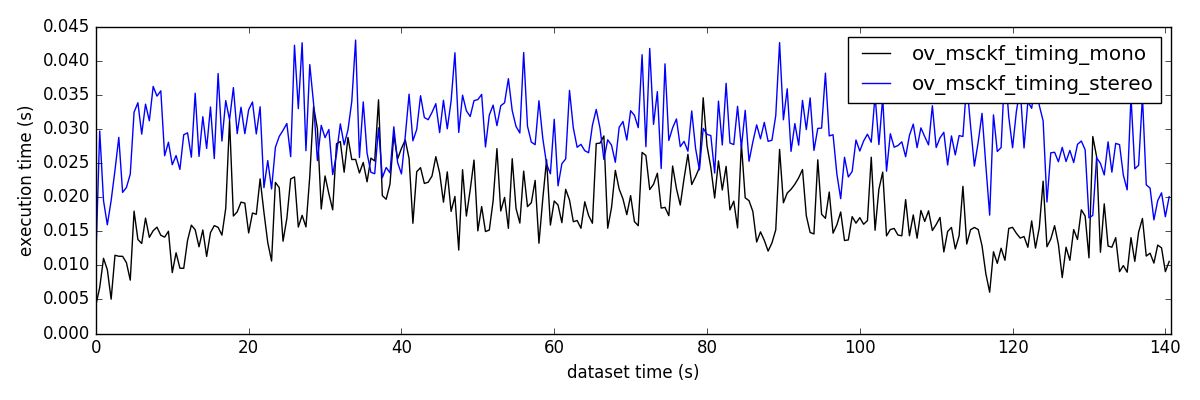
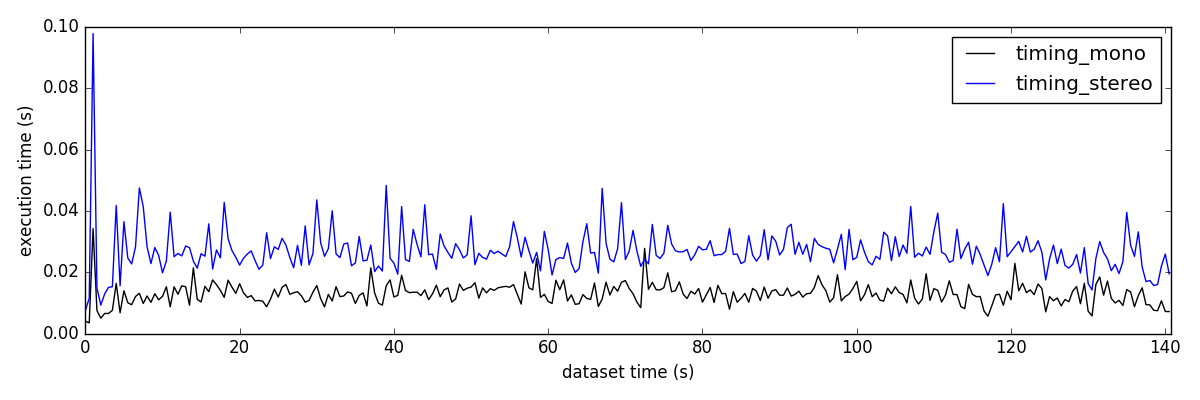
updated documentation about evaluation methods and how to use the new timing plot utilities

diff --git a/open_vins/ov_eval/src/timing_percentages.cpp b/open_vins/ov_eval/src/timing_percentages.cpp
@@ -127,7 +127,8 @@ int main(int argc, char **argv) {
         algo_timings.at(algo).at(2).calculate();
         printf("\tPREC: mean_cpu = %.3f +- %.3f\n",algo_timings.at(algo).at(0).mean,algo_timings.at(algo).at(0).std);
         printf("\tPREC: mean_mem = %.3f +- %.3f\n",algo_timings.at(algo).at(1).mean,algo_timings.at(algo).at(1).std);
-        printf("\t#THR: mean_threads = %.3f +- %.3f\n",algo_timings.at(algo).at(2).mean,algo_timings.at(algo).at(2).std);
+        printf("\tTHR: mean_threads = %.3f +- %.3f\n",algo_timings.at(algo).at(2).mean,algo_timings.at(algo).at(2).std);
+        printf("======================================\n");
 
     }
 
@@ -149,6 +150,8 @@ int main(int argc, char **argv) {
     params_rpe.insert({"notch","false"});
     params_rpe.insert({"sym",""});
 
+    //============================================================
+    //============================================================
     // Plot this figure
     matplotlibcpp::figure_size(1500, 400);
 
@@ -184,7 +187,49 @@ int main(int argc, char **argv) {
     // Display to the user
     matplotlibcpp::ylim(1.0-1*width, ct_pos+1*width);
     matplotlibcpp::yticks(yticks,labels);
-    //matplotlibcpp::xlabel("CPU Percent Usage");
+    matplotlibcpp::xlabel("CPU Percent Usage");
+    matplotlibcpp::tight_layout();
+    matplotlibcpp::show(false);
+
+    //============================================================
+    //============================================================
+    // Plot this figure
+    matplotlibcpp::figure_size(1500, 400);
+
+    // Plot each RPE next to each other
+    width = 0.1/(algo_timings.size()+1);
+    yticks.clear();
+    labels.clear();
+    ct_algo = 0;
+    ct_pos = 0;
+    for(auto &algo : algo_timings) {
+        // Start based on what algorithm we are doing
+        ct_pos = 1+1.5*ct_algo*width;
+        yticks.push_back(ct_pos);
+        labels.push_back(algo.first);
+        // Plot it!!!
+        matplotlibcpp::boxplot(algo.second.at(1).values, ct_pos, width, colors.at(ct_algo%colors.size()), linestyle.at(ct_algo/colors.size()), params_rpe, false);
+        // Move forward
+        ct_algo++;
+    }
+
+    // Add "fake" plots for our legend
+    ct_algo = 0;
+    for(const auto &algo : algo_timings) {
+        std::map<std::string, std::string> params_empty;
+        params_empty.insert({"label", algo.first});
+        params_empty.insert({"linestyle", linestyle.at(ct_algo/colors.size())});
+        params_empty.insert({"color", colors.at(ct_algo%colors.size())});
+        std::vector<double> vec_empty;
+        matplotlibcpp::plot(vec_empty, vec_empty, params_empty);
+        ct_algo++;
+    }
+
+    // Display to the user
+    matplotlibcpp::ylim(1.0-1*width, ct_pos+1*width);
+    matplotlibcpp::yticks(yticks,labels);
+    matplotlibcpp::xlabel("Memory Percent Usage");
+    matplotlibcpp::tight_layout();
     matplotlibcpp::show(true);
 
 #endif

diff --git a/open_vins/ov_eval/python/pid_ros.py b/open_vins/ov_eval/python/pid_ros.py
@@ -87,7 +87,7 @@ if __name__ == '__main__':
             sys.exit(-1)
 
     # open the file we will write the stats into
-    file = open(save_path,"w+")
+    file = open(save_path,"w")
 
     # write header to file
     header = "# timestamp(s) summed_cpu_perc summed_mem_perc summed_threads"
@@ -144,14 +144,15 @@ if __name__ == '__main__':
                 threads.append(0)
 
         # print what the total summed value is
-        rospy.loginfo("cpu%% = %.2f | mem%% = %.2f | threads = %d"%(sum(perc_cpu),sum(perc_mem),sum(threads)))
+        rospy.loginfo("cpu%% = %.3f | mem%% = %.3f | threads = %d"%(sum(perc_cpu),sum(perc_mem),sum(threads)))
 
         # save the current stats to file!
-        data = "%.8f %.2f %.2f %d"%(time.time(),sum(perc_cpu),sum(perc_mem),sum(threads))
+        data = "%.8f %.3f %.3f %d"%(time.time(),sum(perc_cpu),sum(perc_mem),sum(threads))
         for i in range(0,len(node_list)):
-            data += " %.2f %.2f %d"%(perc_cpu[i],perc_mem[i],threads[i])
+            data += " %.3f %.3f %d"%(perc_cpu[i],perc_mem[i],threads[i])
         data += "\n"
         file.write(data)
+        file.flush()
 
     # finally close the file!
     file.close()

diff --git a/open_vins/ov_msckf/src/core/VioManager.cpp b/open_vins/ov_msckf/src/core/VioManager.cpp
@@ -89,7 +89,7 @@ VioManager::VioManager(VioManagerOptions& params_) {
         // Open our statistics file!
         of_statistics.open(params.record_timing_filepath, std::ofstream::out | std::ofstream::app);
         // Write the header information into it
-        of_statistics << "# timestamp (sec),tracking, propagation,msckf update,";
+        of_statistics << "# timestamp (sec),tracking,propagation,msckf update,";
         if(state->_options.max_slam_features > 0) {
             of_statistics << "slam update,slam delayed,";
         }

diff --git a/open_vins/ov_eval/python/pid_sys.py b/open_vins/ov_eval/python/pid_sys.py
@@ -92,8 +92,8 @@ if __name__ == '__main__':
             sum_threads += threads
 
         # print what the total summed value is
-        print("cpu percent = %.2f"%sum_perc_cpu)
-        print("mem percent = %.2f"%sum_perc_mem)
+        print("cpu percent = %.3f"%sum_perc_cpu)
+        print("mem percent = %.3f"%sum_perc_mem)
         print("num threads = %d"%sum_threads)
         processes = False
 

diff --git a/open_vins/ov_eval/src/timing_comparison.cpp b/open_vins/ov_eval/src/timing_comparison.cpp
@@ -131,7 +131,7 @@ int main(int argc, char **argv) {
     for(size_t n=0; n<names.size(); n++) {
 
         // Sub-sample the time and values
-        int keep_every = 50;
+        int keep_every = 10;
         std::vector<double> times_skipped;
         for(size_t t=0; t<total_times.at(n).timestamps.size(); t++) {
             if(t % keep_every == 0) {

diff --git a/open_vins/ov_core/src/dummy.cpp b/open_vins/ov_core/src/dummy.cpp
@@ -53,6 +53,7 @@ namespace ov_core { }
  * Each also has an update function that takes a vector delta and updates their manifold representation.
  * Please see each type for details on what they represent, but their names should be straightforward.
  * Each type is described by the following:
+ *
  * @code{.cpp}
  * class Type {
  * protected:

diff --git a/open_vins/ReadMe.md b/open_vins/ReadMe.md
@@ -80,6 +80,7 @@ Please take a look at the feature list below for full details on what the system
 This code was written by the [Robot Perception and Navigation Group (RPNG)](https://sites.udel.edu/robot/) at the University of Delaware.
 If you have any issues with the code please open an issue on our github page with relevant implementation details and references.
 For researchers that have leveraged or compared to this work, please cite the following:
+
 ```txt
 @Conference{Geneva2020ICRA,
   Title      = {OpenVINS: A Research Platform for Visual-Inertial Estimation},
